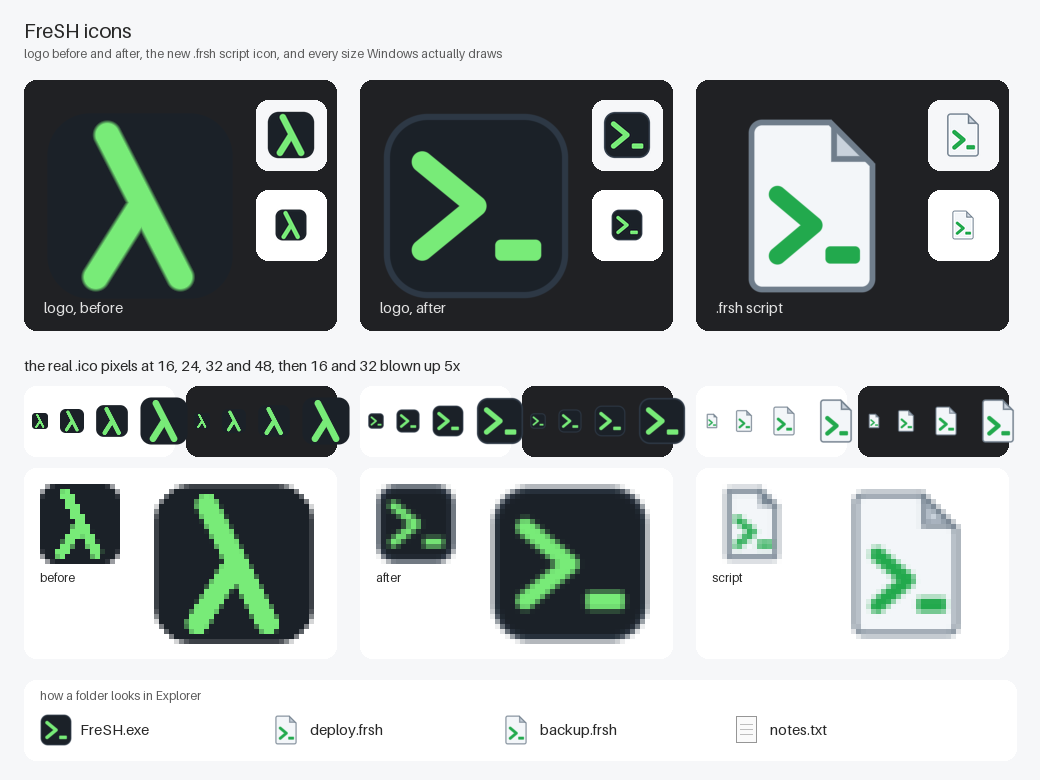
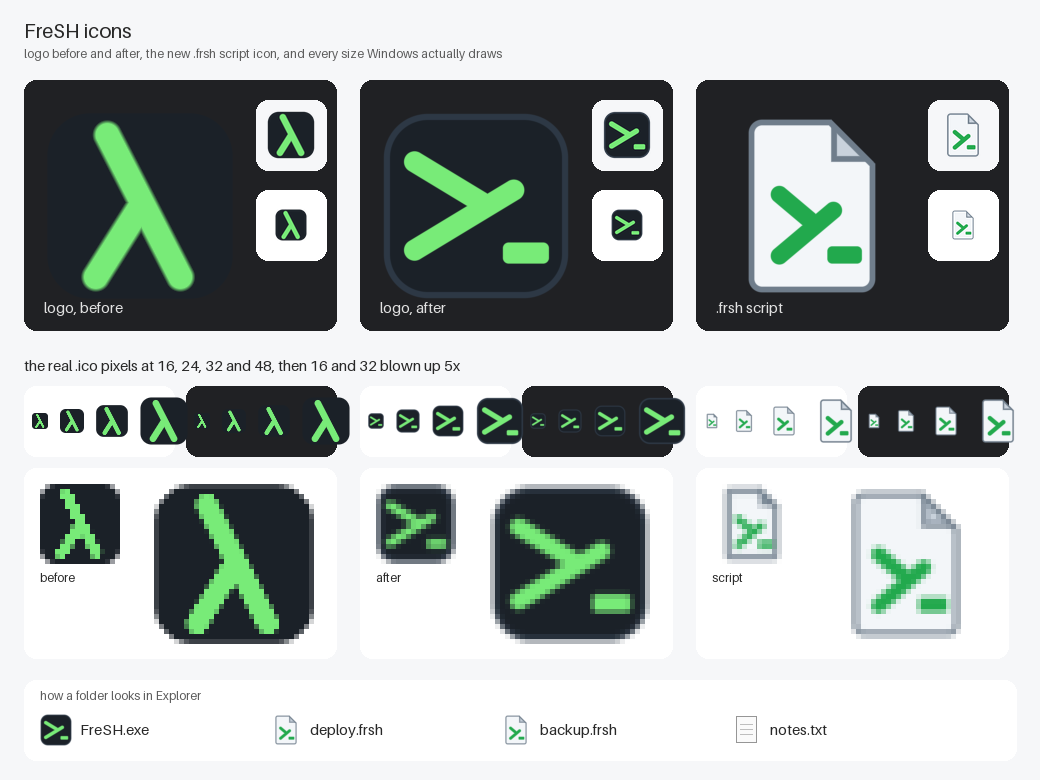
feat: keep the lambda in the prompt
A plain chevron could be any terminal. The prompt now keeps the lambda: the
glyph turned on its side, so its spine runs through the vertex of the
chevron and out the top right as a tail, with the underscore cursor after
it. It reads as a prompt at a glance and as the lambda on a second look,
and at sixteen pixels it is still a chevron and a bar.

The script page carries the same mark. assets/logo.svg and
assets/script.svg match the generated icons and assets/icon-preview.png is
regenerated from the new .ico files.

diff --git a/tools/makeicon.c b/tools/makeicon.c
@@ -73,12 +73,17 @@ static Pixel blend(Pixel under, Pixel over, double amount) {
     return result;
 }
 
-static double chevron_distance(double x, double y, double left, double top, double tip,
-                               double bottom) {
+static double lambda_distance(double x, double y, double left, double top, double tip,
+                              double bottom, double tail) {
     double middle = (top + bottom) / 2;
-    double a = segment_distance(x, y, left, top, tip, middle);
-    double b = segment_distance(x, y, tip, middle, left, bottom);
-    return a < b ? a : b;
+    double dx = tip - left;
+    double dy = middle - bottom;
+    double length = sqrt(dx * dx + dy * dy);
+    double end_x = tip + dx / length * tail;
+    double end_y = middle + dy / length * tail;
+    double leg = segment_distance(x, y, left, top, tip, middle);
+    double spine = segment_distance(x, y, left, bottom, end_x, end_y);
+    return leg < spine ? leg : spine;
 }
 
 static Pixel paint_app(double x, double y, double u) {
@@ -89,10 +94,10 @@ static Pixel paint_app(double x, double y, double u) {
     pixel = blend(pixel, PLATE, edge(plate + rim));
 
     double stroke = 11 * u;
-    double prompt = chevron_distance(x, y, 22 * u, 27 * u, 50 * u, 73 * u) - stroke / 2;
+    double prompt = lambda_distance(x, y, 18 * u, 27 * u, 56 * u, 73 * u, 16 * u) - stroke / 2;
     pixel = blend(pixel, GREEN, edge(prompt));
 
-    double cursor = round_rect_distance(x, y, 60 * u, 67.5 * u, 84 * u, 78.5 * u, 3 * u);
+    double cursor = round_rect_distance(x, y, 64 * u, 69 * u, 88 * u, 80 * u, 3 * u);
     pixel = blend(pixel, GREEN, edge(cursor));
     return pixel;
 }
@@ -114,10 +119,10 @@ static Pixel paint_script(double x, double y, double u) {
     pixel = blend(pixel, FOLD, edge(fold + ink));
 
     double stroke = 9 * u;
-    double prompt = chevron_distance(x, y, 32 * u, 44 * u, 51 * u, 76 * u) - stroke / 2;
+    double prompt = lambda_distance(x, y, 33 * u, 44 * u, 52 * u, 76 * u, 12 * u) - stroke / 2;
     pixel = blend(pixel, SCRIPT_GREEN, edge(prompt));
 
-    double cursor = round_rect_distance(x, y, 57 * u, 71 * u, 75 * u, 80 * u, 2.5 * u);
+    double cursor = round_rect_distance(x, y, 58 * u, 71 * u, 76 * u, 80 * u, 2.5 * u);
     pixel = blend(pixel, SCRIPT_GREEN, edge(cursor));
     return pixel;
 }
